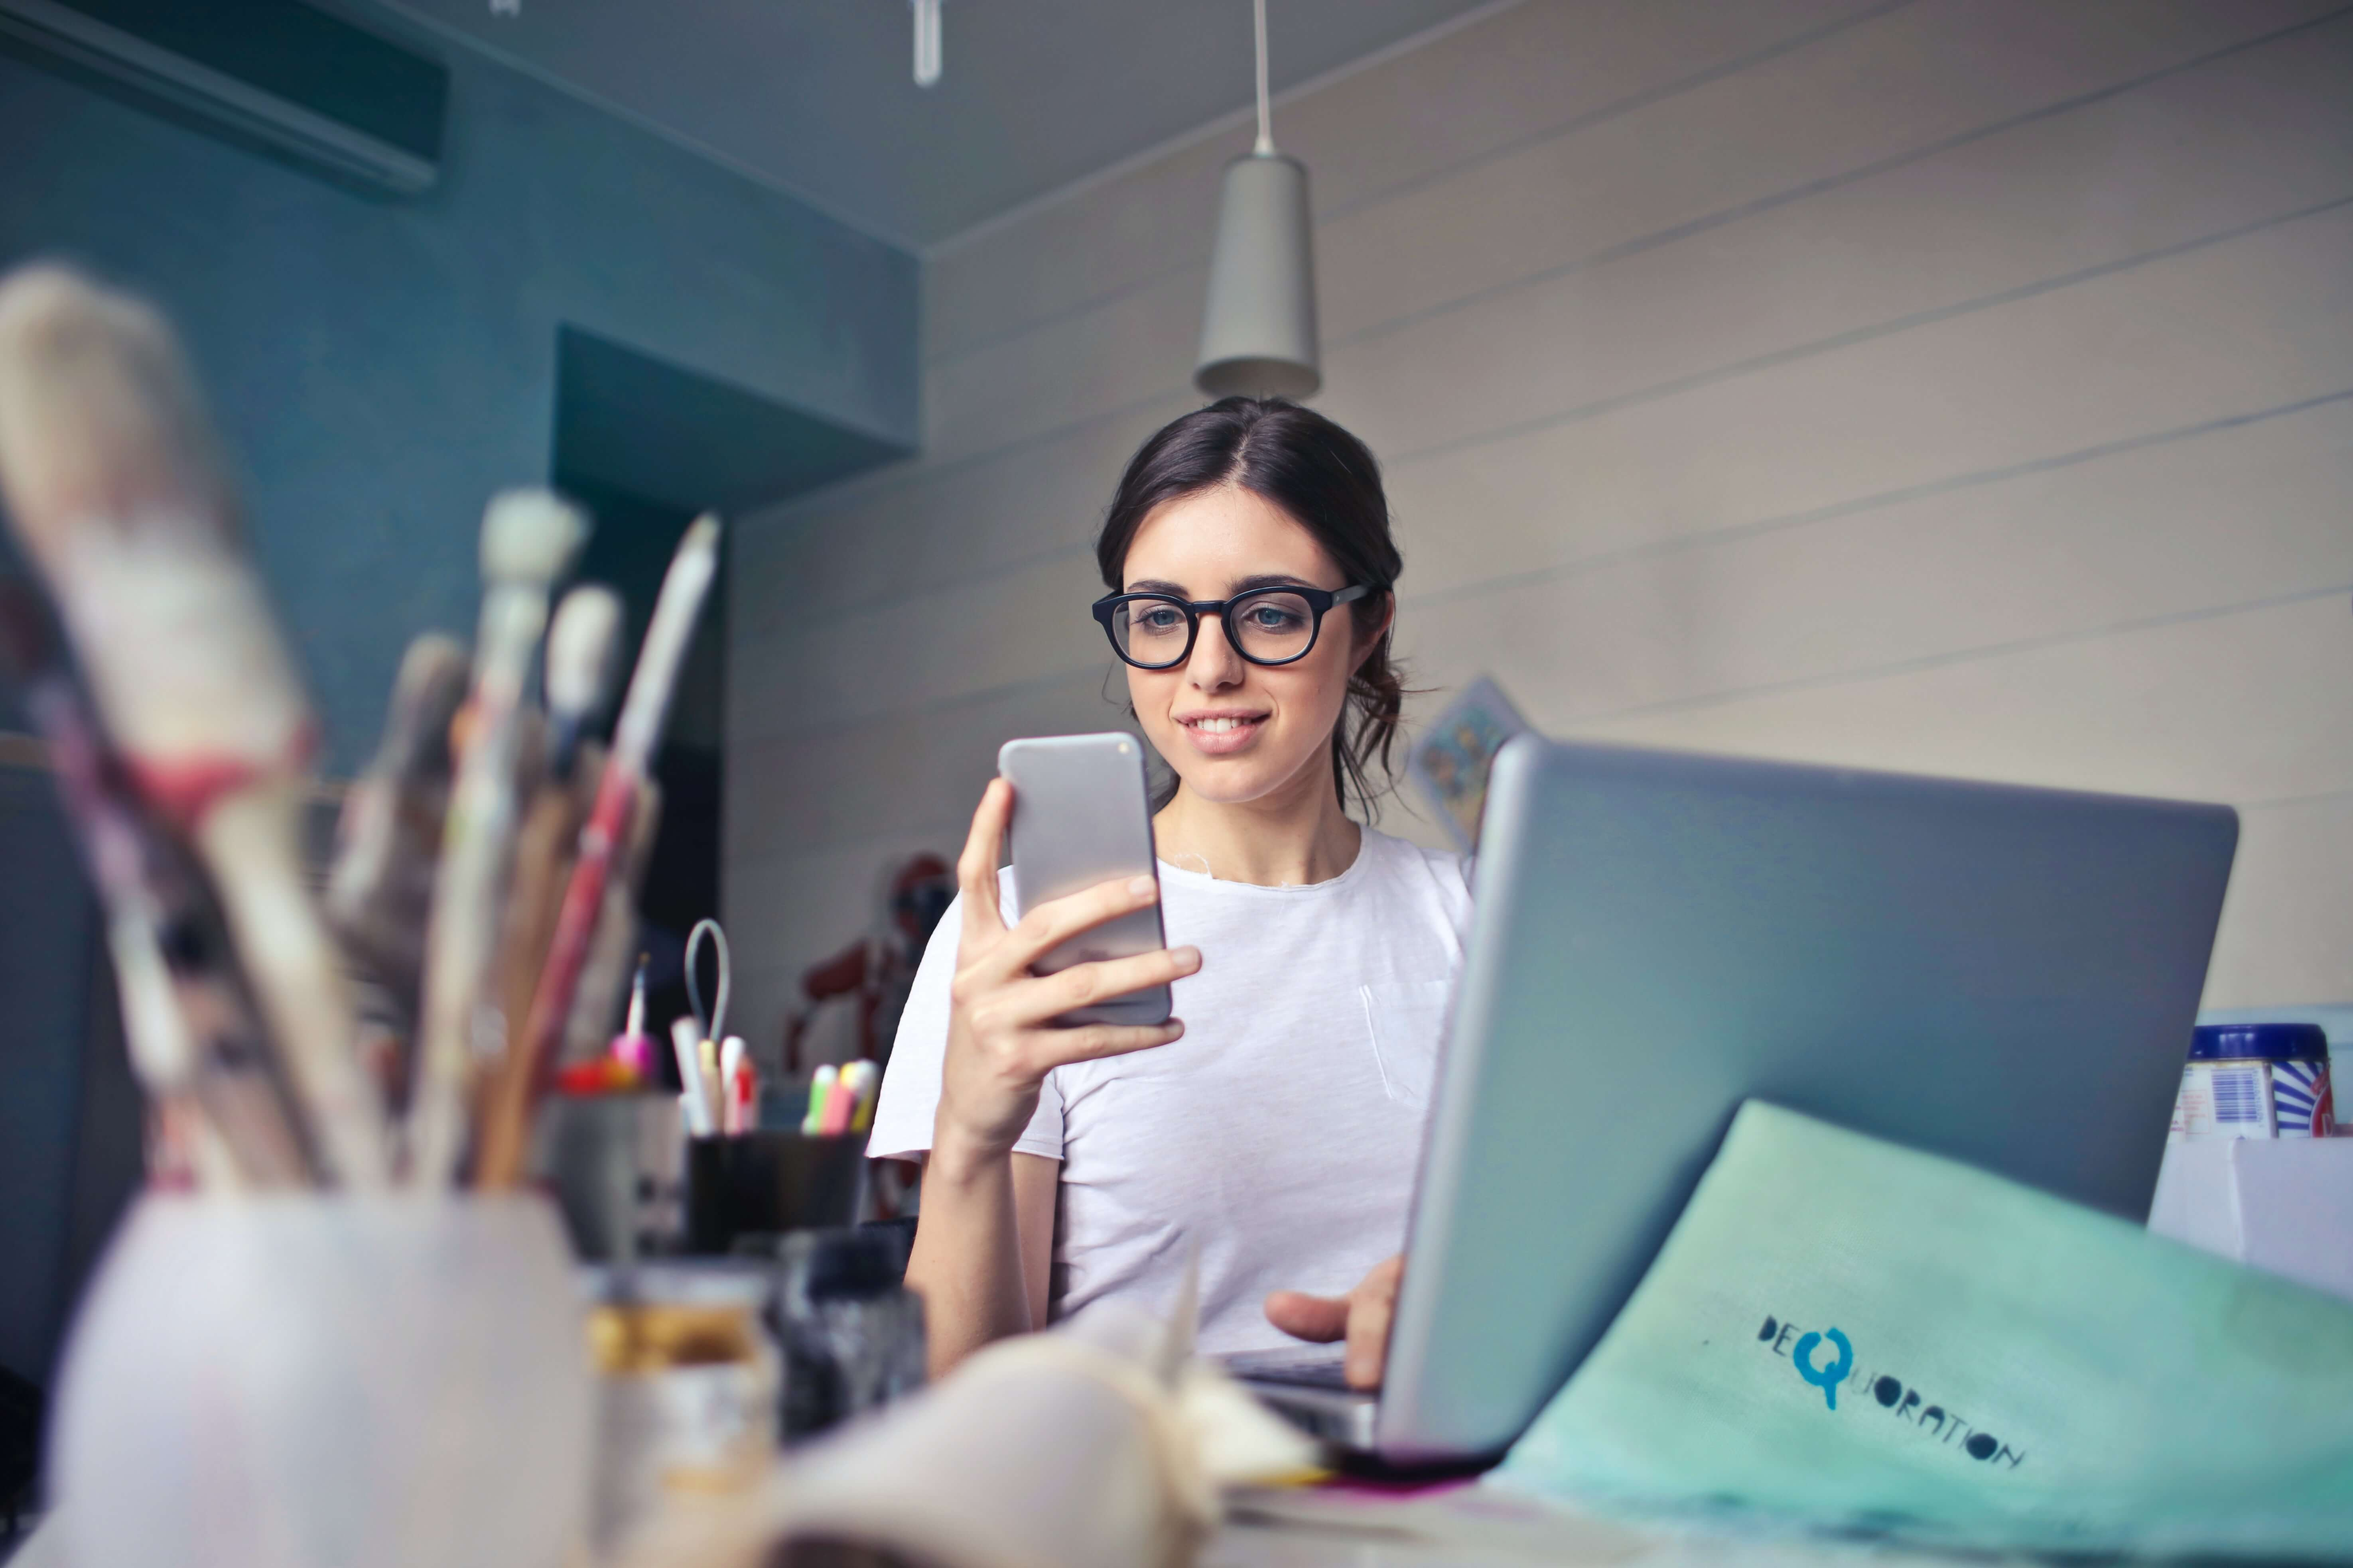
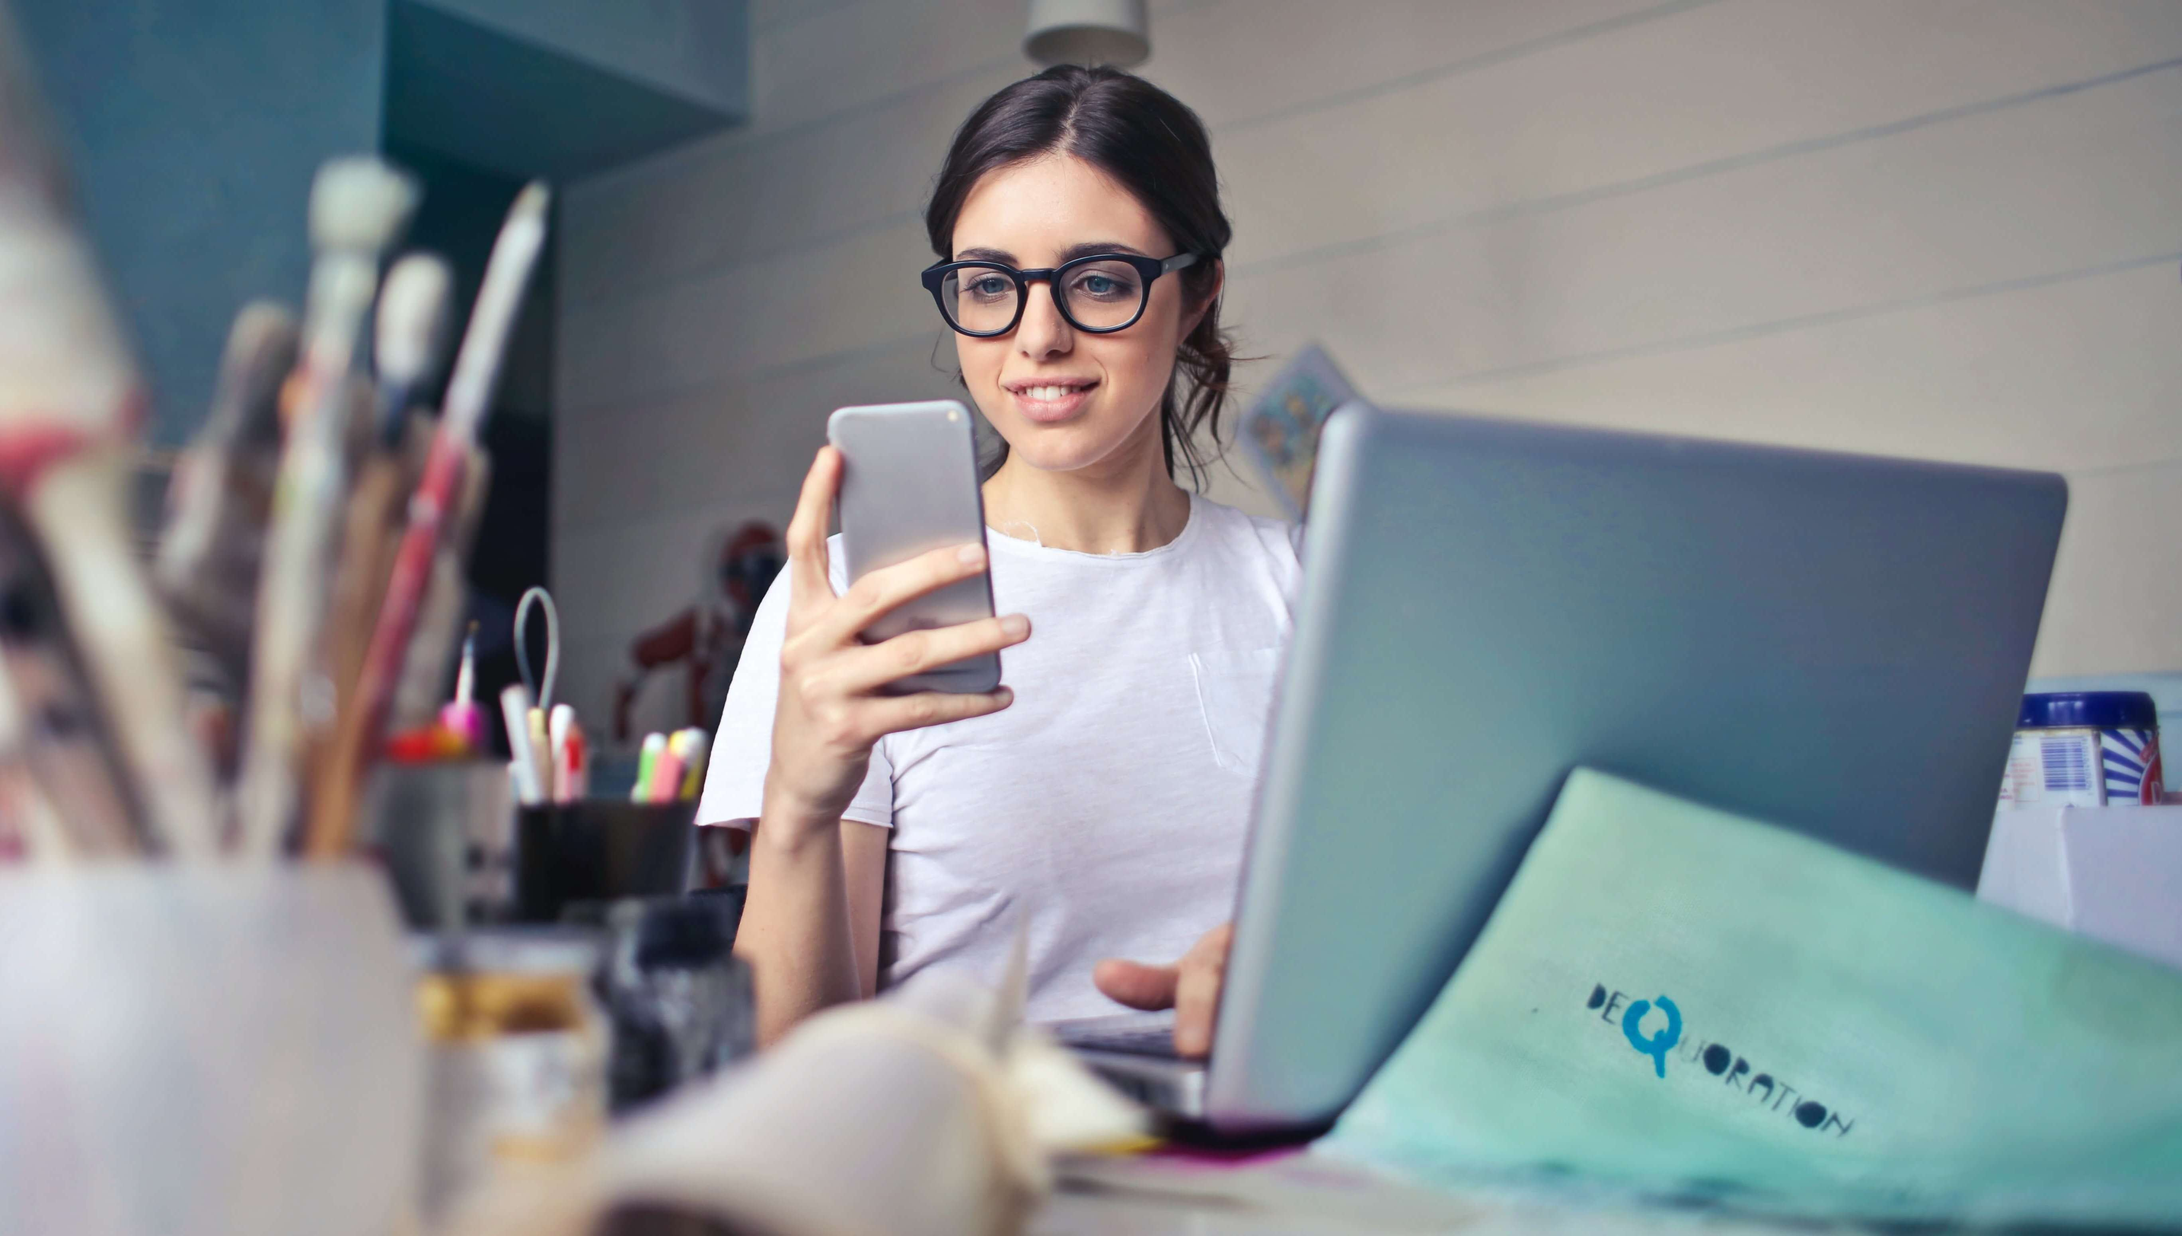
First draft for cover section

diff --git a/frontend/components/CoverSection/index.tsx b/frontend/components/CoverSection/index.tsx
@@ -1,16 +1,30 @@
-import Image from 'next/image'
+// import { Button } from 'antd'
+import { Button } from '@chakra-ui/react'
+import styles from './styles.module.css'
+import { BsChevronDoubleDown } from 'react-icons/bs'
 
 
 const CoverSection: React.FunctionComponent = () => {
-  
   return (
-      <section className={``}>
-         <div>
-            <Image src='/cover_FWVMhUa_wbY.jpg' alt='amicopy-cover-photo' width={5900} height={3933} />
+      <section className={`flex items-center ${styles.container}`}>
+         <div className={`ml-5 ${styles.sectionDiv}`}>
+            <h1 className="mb-7">
+               Copy & paste between multiple devices.
+            </h1>
+            <h2 className="mb-4">
+               Easily copy, paste and transfer text and files from one device to another.
+            </h2>
+            <Button 
+               size="lg" 
+               variant="outline" 
+               rightIcon={<BsChevronDoubleDown className={styles.downArrow} />}
+               className={styles.ctaButton}
+            >
+               Continue
+            </Button>
          </div>
       </section>
    );
 }
-
 
 export default CoverSection;

diff --git a/frontend/components/CoverSection/styles.module.css b/frontend/components/CoverSection/styles.module.css
@@ -1,0 +1,62 @@
+
+.container {
+   height: 550px;
+   background-image: url('/cover_FWVMhUa_wbY.jpg');
+   background-size: 100% 100%;
+   background-repeat: no-repeat;
+   background-color: #ccc;
+   margin-top: 4.5rem;
+}
+
+.sectionDiv {
+   width: 70vw;
+}
+
+.sectionDiv > h1 {
+   font-size: 3rem;
+   font-weight: bold;
+   color: white;
+   /* color: #ea4c89; */
+}
+
+.sectionDiv > h2 {
+   font-size: 1.4rem;
+   font-weight: 900;
+   /* color: rgba(0, 0, 0, 0.85); */
+   color: #ea4c89;;
+
+}
+
+button.ctaButton {
+   color: #ea4c89;
+   border-color: #ea4c89;
+}
+
+button.ctaButton:hover,
+button.ctaButton:focus {
+   background-color: white;
+}
+
+button.ctaButton:focus {
+   box-shadow: 0 0 0 3px rgba(205, 205, 205, 0.6);
+}
+
+
+@keyframes jumpInfinite {
+   0% {
+      margin-top: 0;
+   }
+
+   50% {
+      margin-top: 20px;
+   }
+
+   100% {
+      margin-top: 0;
+   }
+}
+
+.downArrow {
+   animation: jumpInfinite 1.5s infinite;
+}
+

diff --git a/frontend/components/Header/index.tsx b/frontend/components/Header/index.tsx
@@ -12,7 +12,7 @@ const Header: React.FunctionComponent = () => {
   const handleNavBarClick: React.MouseEventHandler = () => setShowMenu(!showMenu);
   
   return (
-    <header className={`md:py-4 ${styles.header}`}>
+    <header className={`${styles.header}`}>
       <MobileNavbar loggedIn={isLoggedIn} onBarClick={handleNavBarClick} />
       <MobileMenu show={showMenu} />
 

diff --git a/frontend/pages/index.tsx b/frontend/pages/index.tsx
@@ -19,6 +19,14 @@ const Home: NextPage = () => {
         <Header />
         <CoverSection />
       </main>
+      <br/>
+      <br/><br/>
+      <br/><br/>
+      <br/><br/>
+      <br/><br/>
+      <br/><br/>
+      <br/><br/>
+      <br/>
     </div>
   )
 }

diff --git a/frontend/components/Header/styles.module.css b/frontend/components/Header/styles.module.css
@@ -4,6 +4,6 @@
     position: fixed;
     z-index: 99999;
     width: 100%;
-    padding-top: .5rem;
+    padding-top: 0.8rem;
     background-color: white;
 }
